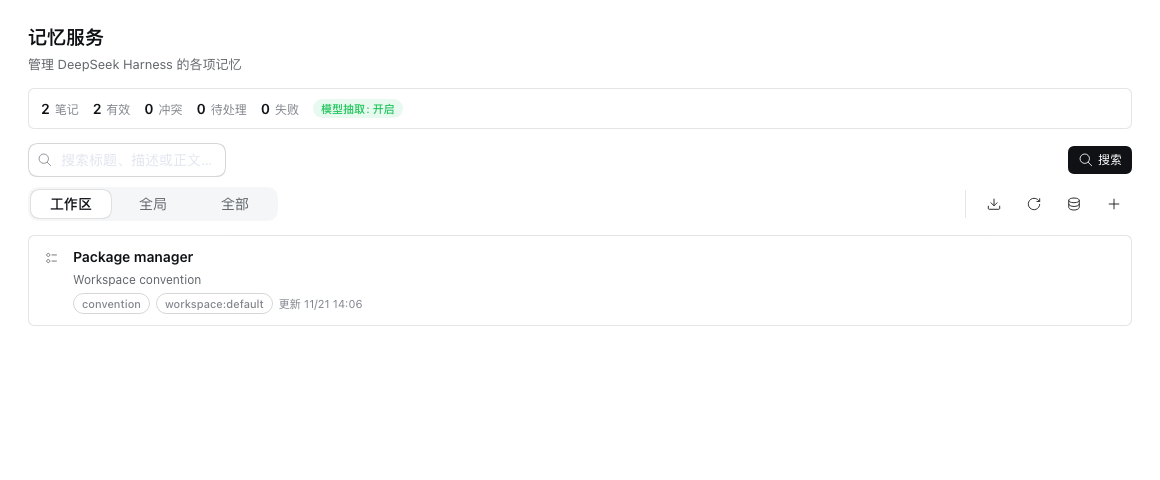
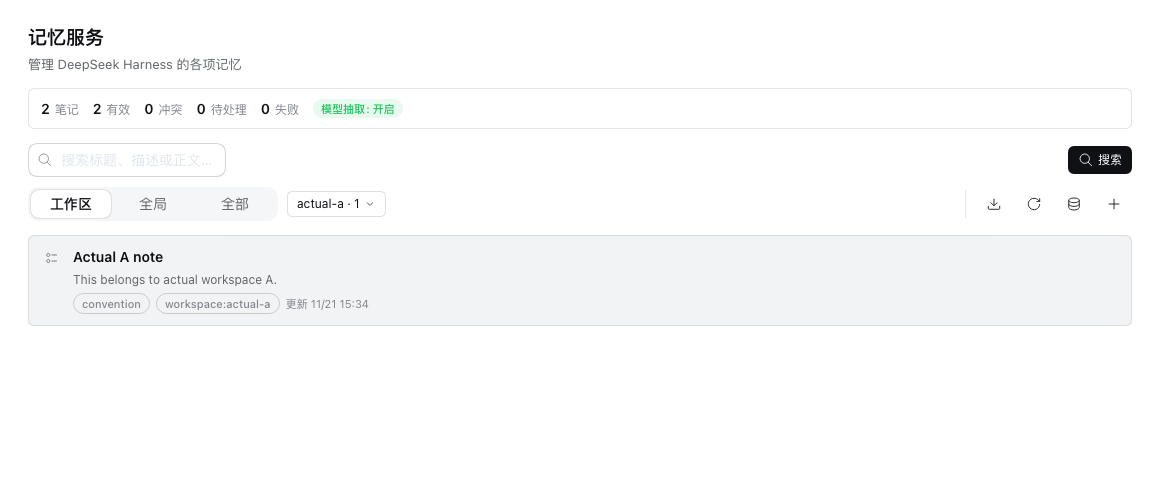
fix: bind workspace scope to real memory workspaces

Changed region(s): [[0.0621, 0.5312, 0.2483, 0.5938], [0.1862, 0.625, 0.3103, 0.6562], [0.2483, 0.4062, 0.3103, 0.4375]]

diff --git a/client.js b/client.js
@@ -204,6 +204,8 @@ window.__ModuleLoader__.load({
         const [status, setStatus] = React.useState(null);
         const [items, setItems] = React.useState([]);
         const [scope, setScope] = React.useState("workspace");
+        const [workspaceId, setWorkspaceId] = React.useState("");
+        const [workspaceDetails, setWorkspaceDetails] = React.useState([]);
         const [query, setQuery] = React.useState("");
         const [loading, setLoading] = React.useState(true);
         const [error, setError] = React.useState("");
@@ -223,6 +225,10 @@ window.__ModuleLoader__.load({
         const [claudeEditing, setClaudeEditing] = React.useState(null);
 
         const selected = items.find((item) => item.id === selectedId) || null;
+        const activeWorkspace = workspaceId || "default";
+        const apiScope = scope === "global" ? "global" : scope === "all" ? "all" : "workspace:" + activeWorkspace;
+        const workspaceOptions = (workspaceDetails.length ? workspaceDetails : [{ id: "default", notes: 0, updatedAt: "" }]).map((item) => ({ value: item.id, label: item.id + (item.notes ? " · " + item.notes : "") }));
+        const scopeOptions = [...workspaceOptions.map((item) => ({ value: "workspace:" + item.value, label: t("workspace") + " " + item.value })), { value: "global", label: t("global") }];
 
         const load = React.useCallback(async (nextScope, nextQuery) => {
           setLoading(true); setError("");
@@ -232,14 +238,17 @@ window.__ModuleLoader__.load({
               nextQuery ? api("search", { query: nextQuery, scope: nextScope, limit: 50 }) : api("list", { scope: nextScope, allScopes: nextScope === "all" })
             ]);
             setStatus(state); setItems(rows || []);
+            const details = state.workspaceDetails || [];
+            setWorkspaceDetails(details);
+            setWorkspaceId((current) => current || ([...details].sort((a, b) => String(b.updatedAt).localeCompare(String(a.updatedAt)))[0]?.id || "default"));
             if (selectedId && !(rows || []).some((row) => row.id === selectedId)) setSelectedId(null);
           } catch (failure) { setError(String(failure.message || failure)); }
           finally { setLoading(false); }
         }, [selectedId]);
 
-        React.useEffect(() => { void load(scope, ""); }, [scope, load]);
-        const submitSearch = (event) => { event.preventDefault(); setOnlyConflicts(false); void load(scope, query.trim()); };
-        const refresh = () => { setOnlyConflicts(false); void load(scope, query.trim()); };
+        React.useEffect(() => { void load(apiScope, ""); }, [apiScope, load]);
+        const submitSearch = (event) => { event.preventDefault(); setOnlyConflicts(false); void load(apiScope, query.trim()); };
+        const refresh = () => { setOnlyConflicts(false); void load(apiScope, query.trim()); };
         const openClaudeImport = async () => {
           setClaudeOpen(true); setClaudeBusy(true); setClaudeError(""); setClaudeSummary(null);
           setClaudeEntries([]); setClaudeSelectedSources([]);
@@ -259,7 +268,7 @@ window.__ModuleLoader__.load({
           if (!claudeSelectedSources.length || claudeBusy) return;
           setClaudeBusy(true); setClaudeError(""); setClaudeSummary(null);
           try {
-            const result = await api("claudePreview", { sources: claudeSelectedSources, scope: claudeImportScope });
+            const result = await api("claudePreview", { sources: claudeSelectedSources, scope: claudeImportScope === "workspace" ? "workspace:" + activeWorkspace : "global" });
             setClaudeEntries((result.entries || []).map((entry) => ({ ...entry, included: true })));
           } catch (failure) { setClaudeError(String(failure.message || failure)); }
           finally { setClaudeBusy(false); }
@@ -270,28 +279,28 @@ window.__ModuleLoader__.load({
           if (!selected.length || claudeBusy) return;
           setClaudeBusy(true); setClaudeError(""); setClaudeSummary(null);
           try {
-            const summary = await api("claudeImportEntries", { force: claudeForce, entries: selected.map((entry) => ({
+            const summary = await api("claudeImportEntries", { force: claudeForce, scope: claudeImportScope === "workspace" ? "workspace:" + activeWorkspace : "global", entries: selected.map((entry) => ({
               source: entry.source, file: entry.file, title: entry.title, description: entry.description,
               body: entry.body, type: entry.type, scope: entry.scope === "global" ? "global" : "workspace"
             })) });
             setClaudeSummary(summary);
-            await load(scope, query.trim());
+            await load(apiScope, query.trim());
           } catch (failure) { setClaudeError(String(failure.message || failure)); }
           finally { setClaudeBusy(false); }
         };
         const showConflicts = async () => {
-          if (onlyConflicts) { setOnlyConflicts(false); void load(scope, query.trim()); return; }
+          if (onlyConflicts) { setOnlyConflicts(false); void load(apiScope, query.trim()); return; }
           setLoading(true); setError("");
-          try { setStatus(await api("state")); setItems(await api("conflicts", { scope: scope === "all" ? "all" : scope })); setSelectedId(null); setOnlyConflicts(true); }
+          try { setStatus(await api("state")); setItems(await api("conflicts", { scope: scope === "all" ? "all" : apiScope })); setSelectedId(null); setOnlyConflicts(true); }
           catch (failure) { setError(String(failure.message || failure)); }
           finally { setLoading(false); }
         };
         const flush = async () => { setError(""); try { await api("flush"); refresh(); } catch (failure) { setError(String(failure.message || failure)); } };
         const back = () => setSelectedId(null);
         const openDetail = (item) => { setSelectedId(item.id); setDraft(null); };
-        const startNew = () => { setSelectedId(null); setDraft({ id: "", title: "", description: "", body: "", type: "fact", scope: scope === "global" ? "global" : "workspace", revision: null }); };
-        const startEdit = (item) => setDraft({ id: item.id, title: item.title, description: item.description, body: item.body, type: item.type, scope: item.scope === "global" ? "global" : "workspace", revision: item.revision });
-        const forget = async (item) => { if (!window.confirm(t("confirmDelete") + " #" + item.id)) return; try { await api("forget", { id: item.id, scope: item.scope === "global" ? "global" : "workspace" }); setSelectedId(null); refresh(); } catch (failure) { setError(String(failure.message || failure)); } };
+        const startNew = () => { setSelectedId(null); setDraft({ id: "", title: "", description: "", body: "", type: "fact", scope: scope === "global" ? "global" : "workspace:" + activeWorkspace, revision: null }); };
+        const startEdit = (item) => setDraft({ id: item.id, title: item.title, description: item.description, body: item.body, type: item.type, scope: item.scope === "global" ? "global" : item.scope, revision: item.revision });
+        const forget = async (item) => { if (!window.confirm(t("confirmDelete") + " #" + item.id)) return; try { await api("forget", { id: item.id, scope: item.scope }); setSelectedId(null); refresh(); } catch (failure) { setError(String(failure.message || failure)); } };
         const save = async () => {
           if (!draft || !draft.body.trim()) return;
           setError("");
@@ -301,7 +310,7 @@ window.__ModuleLoader__.load({
             if (result && result.conflict) { setError(t("conflict")); setDraft({ ...draft, revision: result.latest.revision }); return; }
             const savedId = result?.note?.id || draft.id;
             setDraft(null);
-            await load(scope, query.trim());
+            await load(apiScope, query.trim());
             if (savedId) setSelectedId(savedId);
           } catch (failure) { setError(String(failure.message || failure)); }
         };
@@ -313,7 +322,7 @@ window.__ModuleLoader__.load({
           if (!peers.length) return;
           setError("");
           try {
-            await api("resolve", { winnerId: item.id, loserIds: peers, scope: item.scope === "global" ? "global" : "workspace" });
+            await api("resolve", { winnerId: item.id, loserIds: peers, scope: item.scope });
             setOnlyConflicts(false);
             await load(scope, query.trim());
             setSelectedId(item.id);
@@ -333,6 +342,7 @@ window.__ModuleLoader__.load({
         const toolbar2 = h("div", { className: "dms_toolbar" },
           h("div", { className: "dms_filters" },
             h("div", { className: "dms_scope" }, SegmentedTabs ? h(SegmentedTabs, { items: scopeItems, value: scope, onChange: (value) => { setScope(value); setSelectedId(null); }, label: t("scopeField"), size: "sm" }) : h("select", { className: "dms_select", value: scope, onChange: (event) => setScope(event.target.value) }, scopeItems.map((item) => h("option", { key: item.value, value: item.value }, item.label)))),
+            scope === "workspace" ? h("div", { className: "dms_workspace" }, h(Dropdown, { value: workspaceId || "default", options: workspaceOptions, onChange: (value) => { setWorkspaceId(value); setSelectedId(null); }, label: t("workspace") })) : null,
             (status?.conflicts || 0) > 0 ? action(onlyConflicts ? t("allMemories") : t("conflictShort") + " " + status.conflicts, { type: "button", onClick: showConflicts, variant: onlyConflicts ? "primary" : "ghost" }, "IconInfoOutlineRegular") : null),
           h("div", { className: "dms_actions" },
             iconButton(t("claudeImport"), { type: "button", onClick: openClaudeImport }, "IconDownloadOutlineRegular"),
@@ -376,7 +386,7 @@ window.__ModuleLoader__.load({
           h("label", { className: "dms_field" }, t("bodyField"), h("textarea", { className: "dms_textarea", value: draft.body, onChange: (event) => setDraft({ ...draft, body: event.target.value }) })),
           h("div", { className: "dms_formRow" },
             h("label", { className: "dms_field" }, t("typeField"), h(Dropdown, { value: draft.type, options: TYPES.map((type) => ({ value: type, label: type })), onChange: (value) => setDraft({ ...draft, type: value }), label: t("typeField") })),
-            h("label", { className: "dms_field" }, t("scopeField"), h(Dropdown, { value: draft.scope, options: [{ value: "workspace", label: t("workspace") }, { value: "global", label: t("global") }], onChange: (value) => setDraft({ ...draft, scope: value }), label: t("scopeField") }))),
+            h("label", { className: "dms_field" }, t("scopeField"), h(Dropdown, { value: draft.scope, options: scopeOptions, onChange: (value) => setDraft({ ...draft, scope: value }), label: t("scopeField") }))),
           h("div", { className: "dms_toolbar" }, action(t("save"), { type: "button", onClick: save, variant: "primary", icon: icon("IconCheckOutlineRegular") }), action(t("cancel"), { type: "button", onClick: () => setDraft(null), variant: "ghost" }))) : null;
 
         const claudeSourceRows = claudeSources.map((source) => h(Checkbox, {

diff --git a/README.md b/README.md
@@ -38,7 +38,7 @@
 
 - **Markdown 真源**：每条记忆是带 frontmatter 的普通 <code>.md</code> 文件，可读、可编辑、可 review、可迁移。
 - **可重建索引**：SQLite FTS5 只负责检索加速；索引损坏或删除后可从 Markdown 重建。
-- **双作用域**：<code>workspace:&lt;id&gt;</code> 保留项目内知识；<code>global</code> 保存跨项目约定和用户偏好。
+- **双作用域**：<code>workspace:&lt;id&gt;</code> 保留项目内知识；<code>global</code> 保存跨项目约定和用户偏好。工作区 scope 会列出实际 memory workspace，默认选最近更新的一个，可手动切换。
 - **动态回忆**：每轮注入稳定的 preference/user profile，以及和当前问题相关的 FTS 召回，受 token 预算约束。
 - **自动捕获**：完成轮次进入持久捕获队列；模型判断是否值得长期保存，并保留可核验的原话证据。
 - **冲突与更正**：<code>revision</code> / <code>expectedRevision</code> 防覆盖，<code>supersedes</code> 保留审计链，同一 fact key 的分歧显式标记为冲突。
@@ -135,7 +135,7 @@ node src/cli.mjs list --scope workspace:demo
 
 ## 记忆面板
 
-左侧栏“记忆”打开独立主区页面，覆盖完整生命周期：按 scope 浏览、新建/编辑/复制/遗忘、处理冲突，以及展开 <code>memory_*</code> 工具调用。
+左侧栏“记忆”打开独立主区页面，覆盖完整生命周期：按 scope 浏览、新建/编辑/复制/遗忘、处理冲突，以及展开 <code>memory_*</code> 工具调用。选择“工作区”时会显示实际 workspace 下拉，不再固定绑定 <code>workspace:default</code>。
 
 ![Memory panel](docs/screenshots/memory-panel-final.png)
 

diff --git a/CHANGELOG.md b/CHANGELOG.md
@@ -5,6 +5,7 @@
 - Memory manager promoted from a Settings section to a first-class left-sidebar panel: `sidebar.panellist` entry plus a `main` keyed page.
 - Updated panel, detail, and Claude Code import screenshots for the sidebar shell.
 - Client injection now targets the DSH layout and sidebar packages instead of the Settings package.
+- Workspace scope now exposes real memory workspaces and sends explicit `workspace:<id>` scopes; it no longer falls back to `workspace:default` silently.
 
 ## 0.2.0
 

diff --git a/docs/ui.md b/docs/ui.md
@@ -64,6 +64,7 @@
 ### 列表
 
 - 顶部摘要：笔记/有效/冲突/待处理/失败 + 模型抽取状态；
+- 工作区 scope 右侧是实际 memory workspace 下拉，默认最近更新的 workspace；切换后列表和保存 scope 跟随；
 - 搜索单独一行；
 - 筛选组和操作组分开：scope + 冲突筛选在左，刷新/队列/新增图标在右，避免挤成一排；
 - 列表行显示类型图标、标题、描述、type/scope、更新时间；
